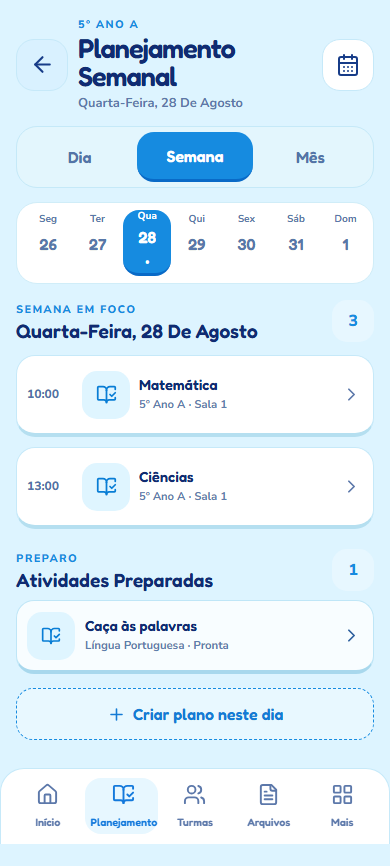
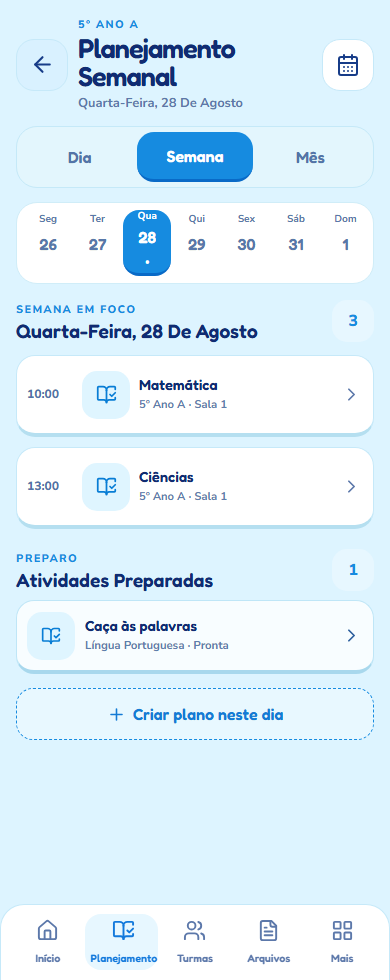
fix: separate compact weekly navigation labels

diff --git a/e2e/v2-planning-week-flow.pw.ts b/e2e/v2-planning-week-flow.pw.ts
@@ -30,6 +30,18 @@ test('Planejamento semanal V2 preserva copy e layout em texto ampliado', async (
   expect(result).toEqual({ overflow: false, hasTitle: true, hasPreparation: true, hasCreate: true });
 });
 
+test('Planejamento semanal V2 mantém rótulos da navegação separados em 320px', async ({ page }) => {
+  await page.setViewportSize({ width: 320, height: 900 });
+  await page.goto('/?v2-preview=planning-week&width=320');
+  const labels = await page.locator('.v2-planning-calendar__nav-item span').evaluateAll((elements) => elements.map((element) => {
+    const rect = element.getBoundingClientRect();
+    return { text: element.textContent?.trim(), left: rect.left, right: rect.right };
+  }));
+
+  expect(labels).toHaveLength(5);
+  expect(labels.slice(1).every((label, index) => label.left >= labels[index].right + 2)).toBe(true);
+});
+
 for (const width of viewports) {
   test(`Planejamento semanal V2 mantém composição adaptativa em ${width}px`, async ({ page }) => {
     await page.setViewportSize({ width, height: width >= 600 ? 960 : 900 });

diff --git a/src/v2/screens/planning-calendar-v2.css b/src/v2/screens/planning-calendar-v2.css
@@ -26,4 +26,6 @@
 .v2-planning-calendar__plan time { min-width: 0; white-space: normal; line-height: 1.15; }
 @media (max-width: 359px) {
   .v2-planning-calendar__plan { grid-template-columns: minmax(54px, auto) 40px minmax(0, 1fr) 18px; }
+  .v2-planning-calendar__bottom-nav { padding-inline: 6px; }
+  .v2-planning-calendar__nav-item { min-width: 0; font-size: .6rem; letter-spacing: -.015em; }
 }
